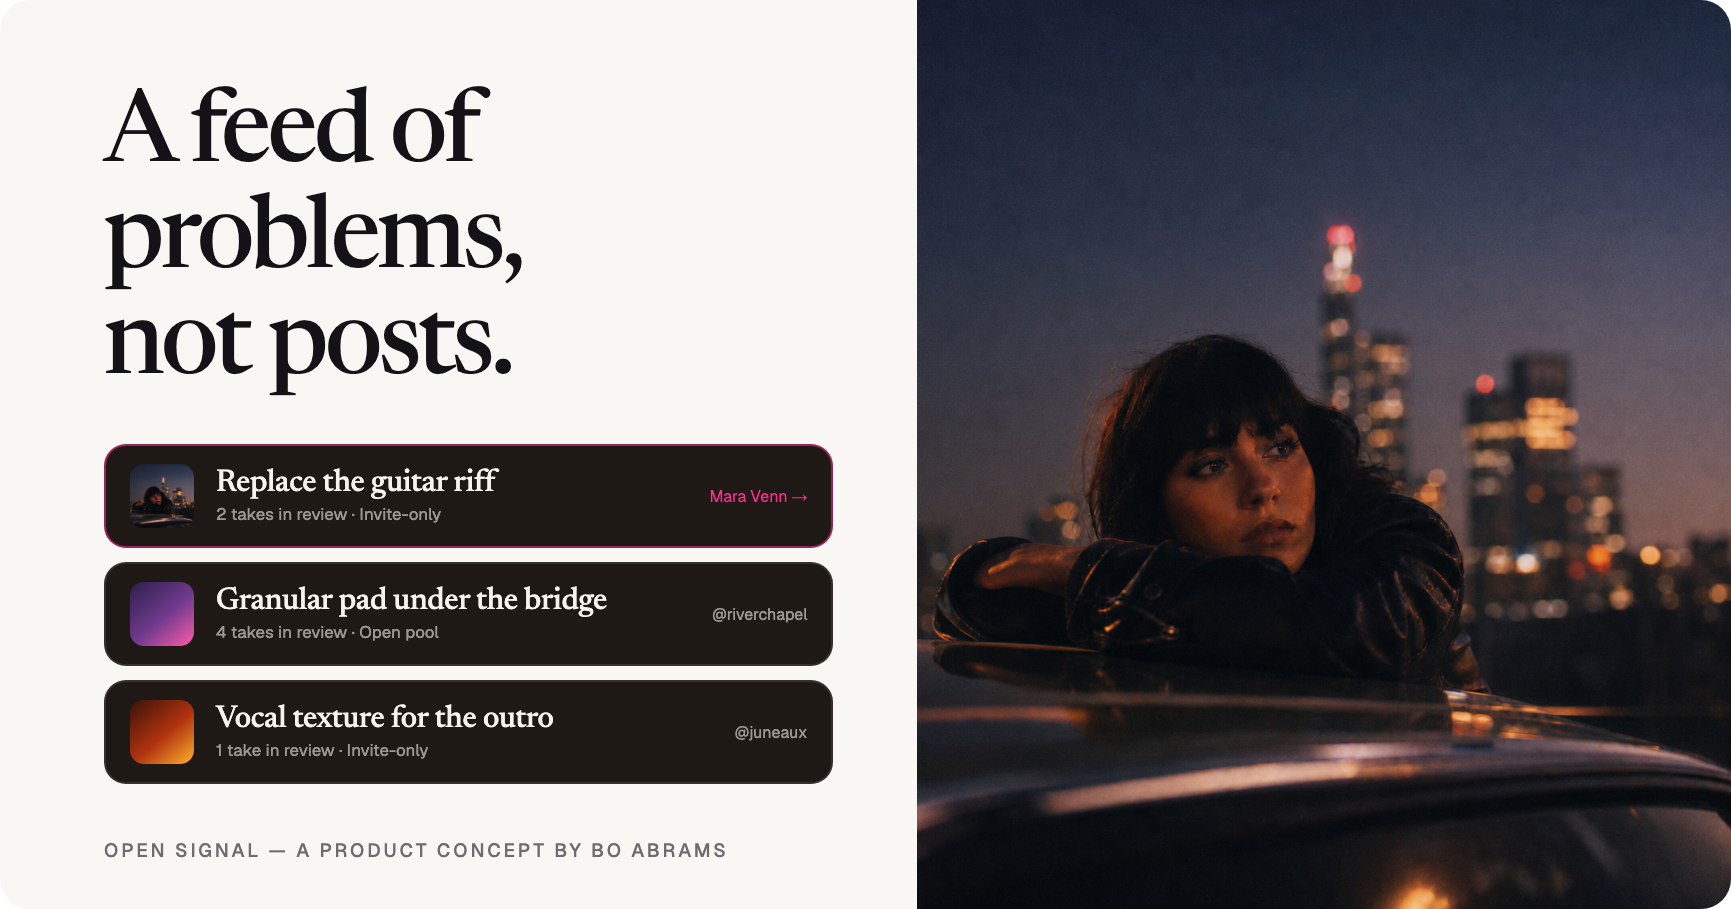
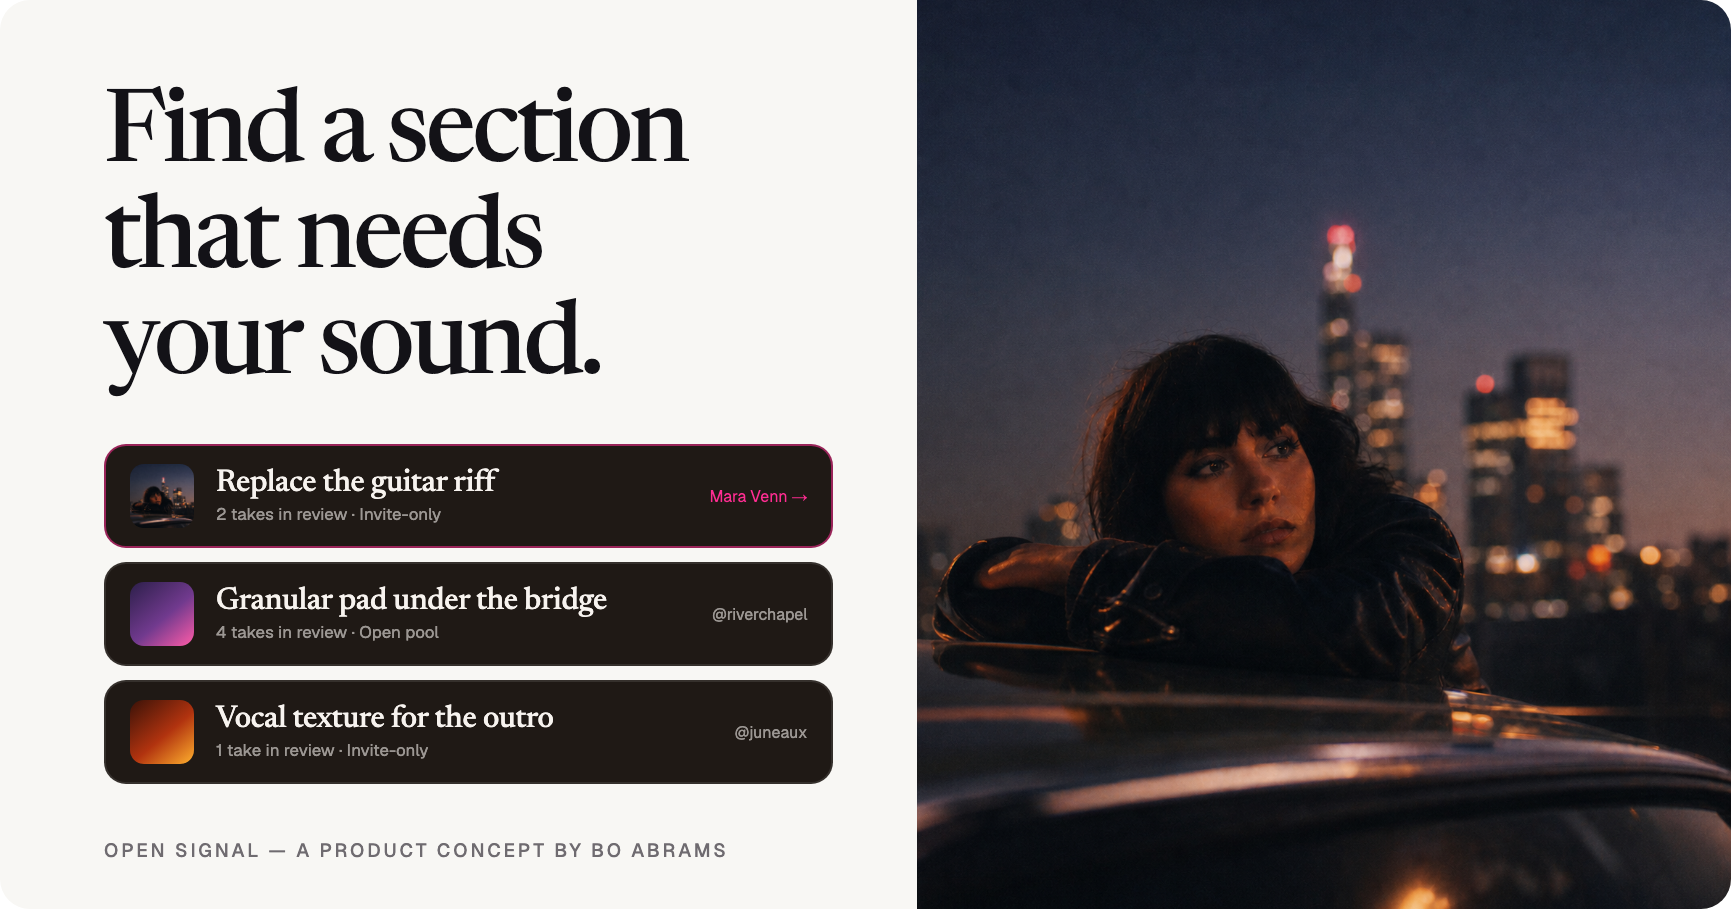
Apply panel-three fixes under the product-voice copy rule
Inside the phone, copy is now user-voice or essential disclosure only:
the browse subline invites ("Find a section that needs your sound"), the
submit scene names the role you play (@lowlight, invited), Nia's note
loses its generated echo, and accepted counts increment on acceptance.
The measurement section answers cold start and prior art in one line.
Docs gain a short application blurb and two primer hard questions. The
social card adopts the same user-voice headline.

Changed region(s): [[0.0624, 0.2156, 0.3432, 0.4312], [0.0624, 0.0924, 0.4055, 0.1848]]

diff --git a/app/OpenSignalExperience.tsx b/app/OpenSignalExperience.tsx
@@ -52,7 +52,7 @@ const contributions = {
   lowlight: {
     handle: "@lowlight",
     title: "Muted trumpet counterline",
-    note: "More tension, less stock cadence.",
+    note: "More tension, fewer safe choices.",
     color: "#ff5ca8",
     tint: "rgba(255, 92, 168, 0.16)",
     name: "Nia Okafor",
@@ -766,7 +766,7 @@ function SubmitScene({
           <Icon name="back" />
         </button>
         <div>
-          <span>Contributor view</span>
+          <span>Contributor view · @lowlight, invited</span>
           <strong>Add your take</strong>
         </div>
         <img src="/nia-okafor.png" alt="Nia Okafor" />
@@ -1171,7 +1171,7 @@ function ProfileScene({
       <p className="profile-handle">{creator.handle}</p>
       <VerifiedHuman />
       <div className="reputation-stats" aria-label="Suno reputation">
-        <div><strong>{creator.acceptedCount}</strong><span>Accepted</span></div>
+        <div><strong>{creator.acceptedCount + (accepted ? 1 : 0)}</strong><span>Accepted</span></div>
         <div><strong>{creator.reuses}</strong><span>Reuses</span></div>
         <div><strong>{creator.openCalls}</strong><span>Open calls</span></div>
       </div>
@@ -1272,7 +1272,13 @@ function AcceptanceReceipt({
   );
 }
 
-function BrowseScene({ onOpenCall }: { onOpenCall: () => void }) {
+function BrowseScene({
+  onOpenCall,
+  acceptedId,
+}: {
+  onOpenCall: () => void;
+  acceptedId: CreatorContributionId | null;
+}) {
   const malik = contributions.circuitromance;
 
   return (
@@ -1283,7 +1289,7 @@ function BrowseScene({ onOpenCall }: { onOpenCall: () => void }) {
       </div>
       <header className="browse-header">
         <h2>Open work</h2>
-        <p>A feed of problems, not posts.</p>
+        <p>Find a section that needs your sound.</p>
       </header>
 
       <h3 className="browse-section-title">Trending open calls</h3>
@@ -1342,12 +1348,12 @@ function BrowseScene({ onOpenCall }: { onOpenCall: () => void }) {
         <div className="browse-person">
           <img src="/nia-okafor.png" alt="Nia Okafor" />
           <strong>@lowlight</strong>
-          <small>18 accepted</small>
+          <small>{contributions.lowlight.acceptedCount + (acceptedId === "lowlight" ? 1 : 0)} accepted</small>
         </div>
         <div className="browse-person">
           <img src="/adopter-malik.jpg" alt="Malik Chen" />
           <strong>@circuitromance</strong>
-          <small>{malik.acceptedCount} accepted</small>
+          <small>{malik.acceptedCount + (acceptedId === "circuitromance" ? 1 : 0)} accepted</small>
         </div>
         <div className="browse-person">
           <img src="/adopter-ana.jpg" alt="" />
@@ -1427,7 +1433,7 @@ function PhoneDemo({
     <div className={`phone-frame phone-frame--${scene}`}>
       <div className="phone-island" aria-hidden="true" />
       {scene === "browse" ? (
-        <BrowseScene onOpenCall={() => onScene("call")} />
+        <BrowseScene onOpenCall={() => onScene("call")} acceptedId={acceptedId} />
       ) : null}
       {scene === "player" ? (
         <PlayerScene
@@ -1930,6 +1936,7 @@ export function OpenSignalExperience() {
           <h2 id="measurement-title">What the beta must prove</h2>
           <p>Start invite-only with creators who repeatedly edit one section but have not exported the song.</p>
           <p className="measurement-note">Credit-first by design. Compensation and splits enter once accepted takes prove they help songs ship.</p>
+          <p className="measurement-note">Supply starts with the same stuck editors flipped around: a 14-second ask is small enough to answer between your own edits, and it lands where creators already are.</p>
         </div>
         <dl>
           <div><dt>Primary</dt><dd>Incremental 7-day publish or export completion versus editing alone</dd></div>

diff --git a/HANDOFF.md b/HANDOFF.md
@@ -48,6 +48,13 @@ concept must remain additive and differentiated.
 
 ## User intent to preserve
 
+- **Copy voice rule (Bo, 2026-08-05):** inside the phone, every string is
+  either product-voice (what a real user needs in order to want to try the
+  feature) or viewer-essential disclosure ("Illustrative…"). Positioning and
+  reviewer-facing framing live on the editorial page only. This retired
+  "A feed of problems, not posts." from the browse scene in favor of
+  "Find a section that needs your sound."
+
 - Borrow GitHub's collaboration logic, not its visual chrome.
 - Make the product feel native to Suno and musical rather than technical.
 - Keep mobile as the primary surface while allowing a polished desktop review.
@@ -454,3 +461,31 @@ the post-pass profile "In review" seam (edge path). Evidence-pack note:
 four capture files in the session scratchpad were byte-identical duplicates
 (harness artifact, deleted); judges verified those states on the live build
 directly.
+
+### Judge panel 3 + voice pass (2026-08-05)
+
+Third blind panel on the browse build with a state-verified, md5-unique
+evidence pack including the OG unfurl card: unanimous
+strengthen/forward/interview for the third round (recruiter: "top 1–2% of
+work samples"; CPO craft 9; skeptic probe-resilience up to 7). Panel-two
+fixes held under attack (taxonomy "the labels carry it"; subtitle
+"correctly names generation's retention ceiling"; counts "non-round and
+plausible"). Shipped from converged findings + Bo's copy-voice rule:
+
+- Browse subline → user-voice "Find a section that needs your sound."
+  (test pin updated; the retired slogan also left the OG card, which now
+  uses the same user-voice headline).
+- Submit eyebrow → "Contributor view · @lowlight, invited" (kills the
+  skeptic's role-play hole and circular-timeline catch).
+- Nia's note de-echoed → "More tension, fewer safe choices." (removes the
+  generated-echo "stock cadence" repeat).
+- Accepted counts increment on acceptance (18→19 on profile and browse;
+  reset restores) — the skeptic's off-by-one.
+- Measurement section gained the why-now/cold-start line: "Supply starts
+  with the same stuck editors flipped around…"
+- APPLICATION-LINK-COPY gained a ~55-word short recommended blurb; primer
+  gained the prior-art/why-now hard question (BandLab/Kompoz/Blend) and the
+  passed-take derivation-chain cap.
+
+Remaining known probes are primer-armed, not page-fixed: derivative
+provenance depth, experiment design, browse-at-beta-scale.

diff --git a/SUBMISSION-PRIMER.md b/SUBMISSION-PRIMER.md
@@ -214,7 +214,21 @@ which is what the rights confirmation attests and the receipt records. That
 is why song rights transfer only on acceptance, stems stay excluded by
 default, and the draft captures the take's method — recorded, Suno remix,
 or uploaded. Provenance is a first-class field. In beta, remix-method takes
-carry the derivation chain in the receipt.
+carry the derivation chain in the receipt. The same logic caps what a
+passed take is worth outside the song: the contributor keeps their layer
+and their idea, but a remix-method take embedding the owner's stem is not
+freely reusable, and the derivation chain is what enforces that line.
+
+**"BandLab, Kompoz, and Blend all did open collaboration. They stalled.
+Why does this work now?"**
+They asked strangers for whole songs with no distribution behind the ask.
+Two things changed: the unit of work and the location. A 14-second scoped
+ask with a one-revision cap is answerable between your own edits, and it
+lives inside the app where creators already are, not on a destination site
+you have to remember to visit. Generation also changes the economics of a
+take: auditioning an idea costs minutes, not a studio session. Supply
+starts as the same stuck editors flipped around, then widens through
+earned access.
 
 **"How do you know the primary metric is causal and not self-selection?"**
 You don't, until you design for it. Eligible stuck editors get randomized

diff --git a/APPLICATION-LINK-COPY.md b/APPLICATION-LINK-COPY.md
@@ -1,6 +1,18 @@
 # Open Signal application link copy
 
-## Recommended
+## Recommended (short)
+
+**Open Signal — a playable, mobile-first product spec for Suno.** Browse open
+work, ask for one precise take, choose what ships, and mint rights-safe
+credit for who made it.
+
+https://open-signal-concept.boabrams.workers.dev
+
+60-second path: **Browse → Open call → Add your take → Compare → Accept →
+Profile**. Fictional people and audio; independent concept, not affiliated
+with Suno.
+
+## Longer version
 
 **Open Signal — an interactive product specification**
 
